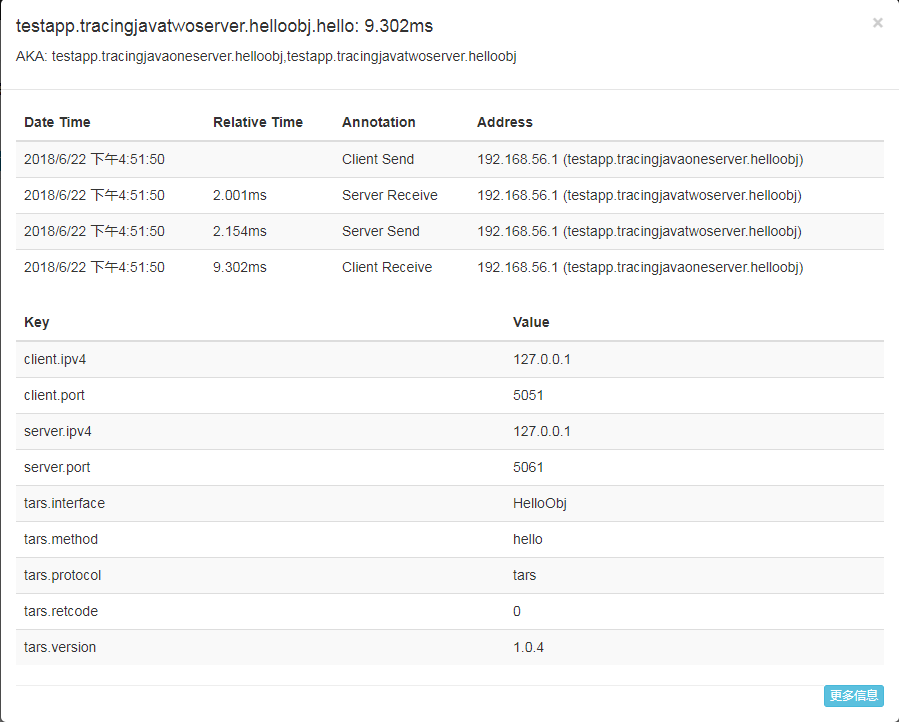
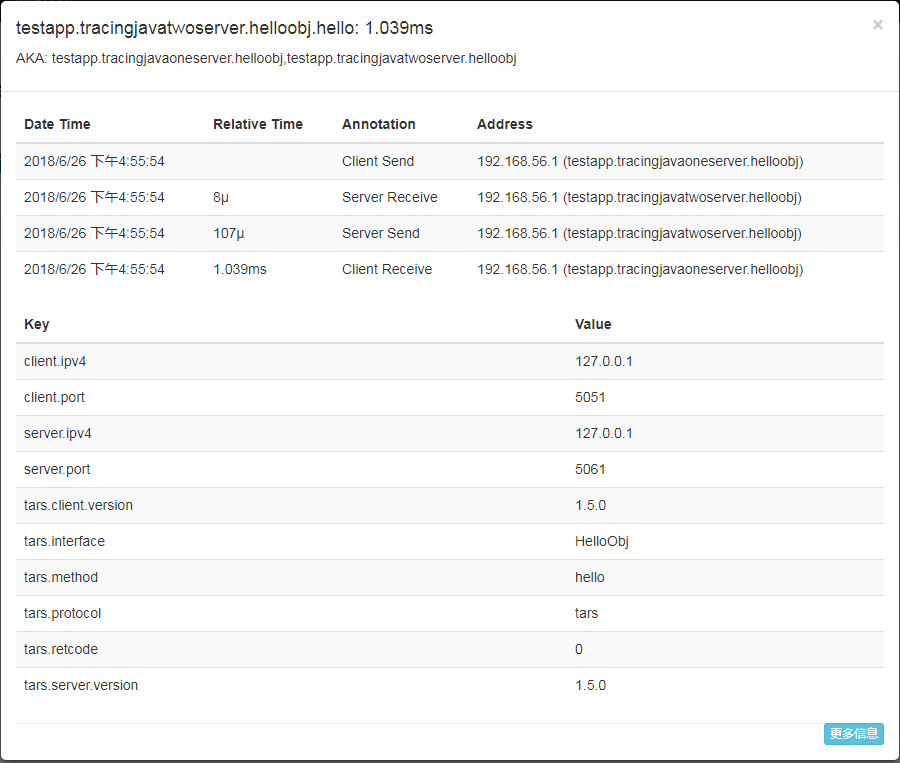
fix java version info

diff --git a/java/core/src/main/java/com/qq/tars/support/trace/TraceServerFilter.java b/java/core/src/main/java/com/qq/tars/support/trace/TraceServerFilter.java
@@ -16,6 +16,7 @@ import com.qq.tars.net.core.Request;
 import com.qq.tars.net.core.Response;
 import com.qq.tars.rpc.protocol.tars.TarsServantRequest;
 import com.qq.tars.rpc.protocol.tars.TarsServantResponse;
+import com.qq.tars.server.ServerVersion;
 import com.qq.tars.server.config.ConfigurationManager;
 
 public class TraceServerFilter implements Filter {
@@ -53,6 +54,7 @@ public class TraceServerFilter implements Filter {
 						if (StringUtils.isNotEmpty(endpoint.setDivision())) {
 							scope.span().setTag("tars.set_division", endpoint.setDivision());
 						}
+						scope.span().setTag("tars.server.version", ServerVersion.getVersion());
 					}
 					chain.doFilter(request, response);
 					TarsServantResponse tarsServantResponse = (TarsServantResponse)response;

diff --git a/java/core/src/main/java/com/qq/tars/support/trace/TraceClientFilter.java b/java/core/src/main/java/com/qq/tars/support/trace/TraceClientFilter.java
@@ -73,7 +73,7 @@ public class TraceClientFilter implements Filter {
         		scope.span().setTag("tars.interface", getObjName(servantName));
         		scope.span().setTag("tars.method", tarsServantRequest.getFunctionName());
         		scope.span().setTag("tars.protocol", protocol);
-        		scope.span().setTag("tars.version", ClientVersion.getVersion());
+        		scope.span().setTag("tars.client.version", ClientVersion.getVersion());
         		
         		
         		TarsServantResponse tarsServantResponse = (TarsServantResponse)response;

diff --git a/java/core/src/main/java/com/qq/tars/client/ClientVersion.java b/java/core/src/main/java/com/qq/tars/client/ClientVersion.java
@@ -19,8 +19,8 @@ package com.qq.tars.client;
 public final class ClientVersion {
 
     public static final String major = "1";
-    public static final String minor = "0";
-    public static final String build = "1";
+    public static final String minor = "5";
+    public static final String build = "0";
 
     public static String getVersion() {
         return major + "." + minor + "." + build;

diff --git a/java/core/src/main/java/com/qq/tars/server/ServerVersion.java b/java/core/src/main/java/com/qq/tars/server/ServerVersion.java
@@ -19,8 +19,8 @@ package com.qq.tars.server;
 public final class ServerVersion {
 
     public static final String major = "1";
-    public static final String minor = "0";
-    public static final String build = "3";
+    public static final String minor = "5";
+    public static final String build = "0";
 
     public static String getVersion() {
         return major + "." + minor + "." + build;

diff --git a/docs/tars_tracing.md b/docs/tars_tracing.md
@@ -205,16 +205,18 @@ trace_html=zipkin_address(include http://)
 
 调用链key-value信息说明：
 
-| key            | value                           |
-| -------------- | ------------------------------- |
-| client.ipv4    | 客户端ipv4地址。                      |
-| client.port    | 客户端端口。                          |
-| server.ipv4    | 服务端ipv4地址。                      |
-| server.port    | 服务端端口。                          |
-| tars.interface | 服务端被调接口名（对于tars-java来说就是一个obj）。 |
-| tars.method    | 服务端被调方法名。                       |
-| tars.protocol  | 数据编码协议。                         |
-| tars.retcode   | 调用返回码，0表示成功，非0为失败。              |
+| key                 | value                           |
+| ------------------- | ------------------------------- |
+| client.ipv4         | 客户端ipv4地址。                      |
+| client.port         | 客户端端口。                          |
+| server.ipv4         | 服务端ipv4地址。                      |
+| server.port         | 服务端端口。                          |
+| tars.interface      | 服务端被调接口名（对于tars-java来说就是一个obj）。 |
+| tars.method         | 服务端被调方法名。                       |
+| tars.protocol       | 数据编码协议。                         |
+| tars.retcode        | 调用返回码，0表示成功，非0为失败。              |
+| tars.client.version | 客户端tars版本                       |
+| tars.server.version | 服务端tars版本                       |
 
 
 
